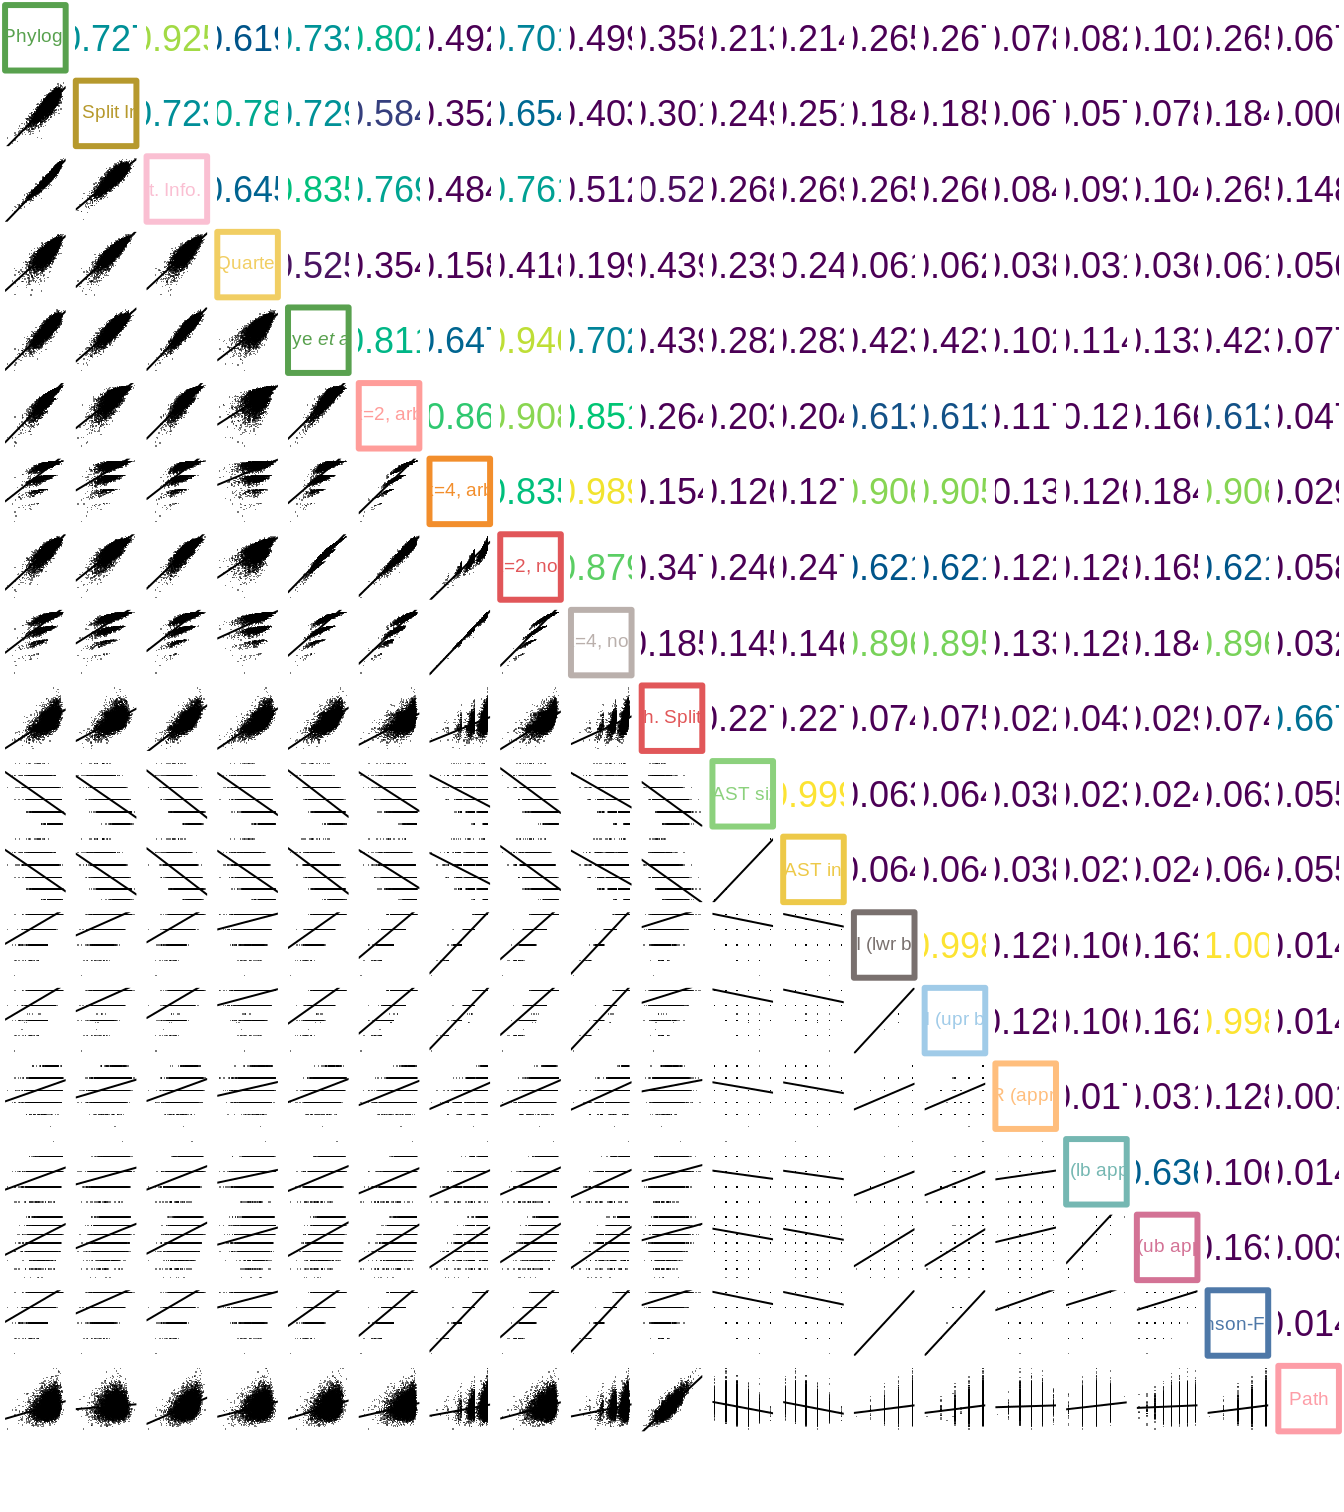
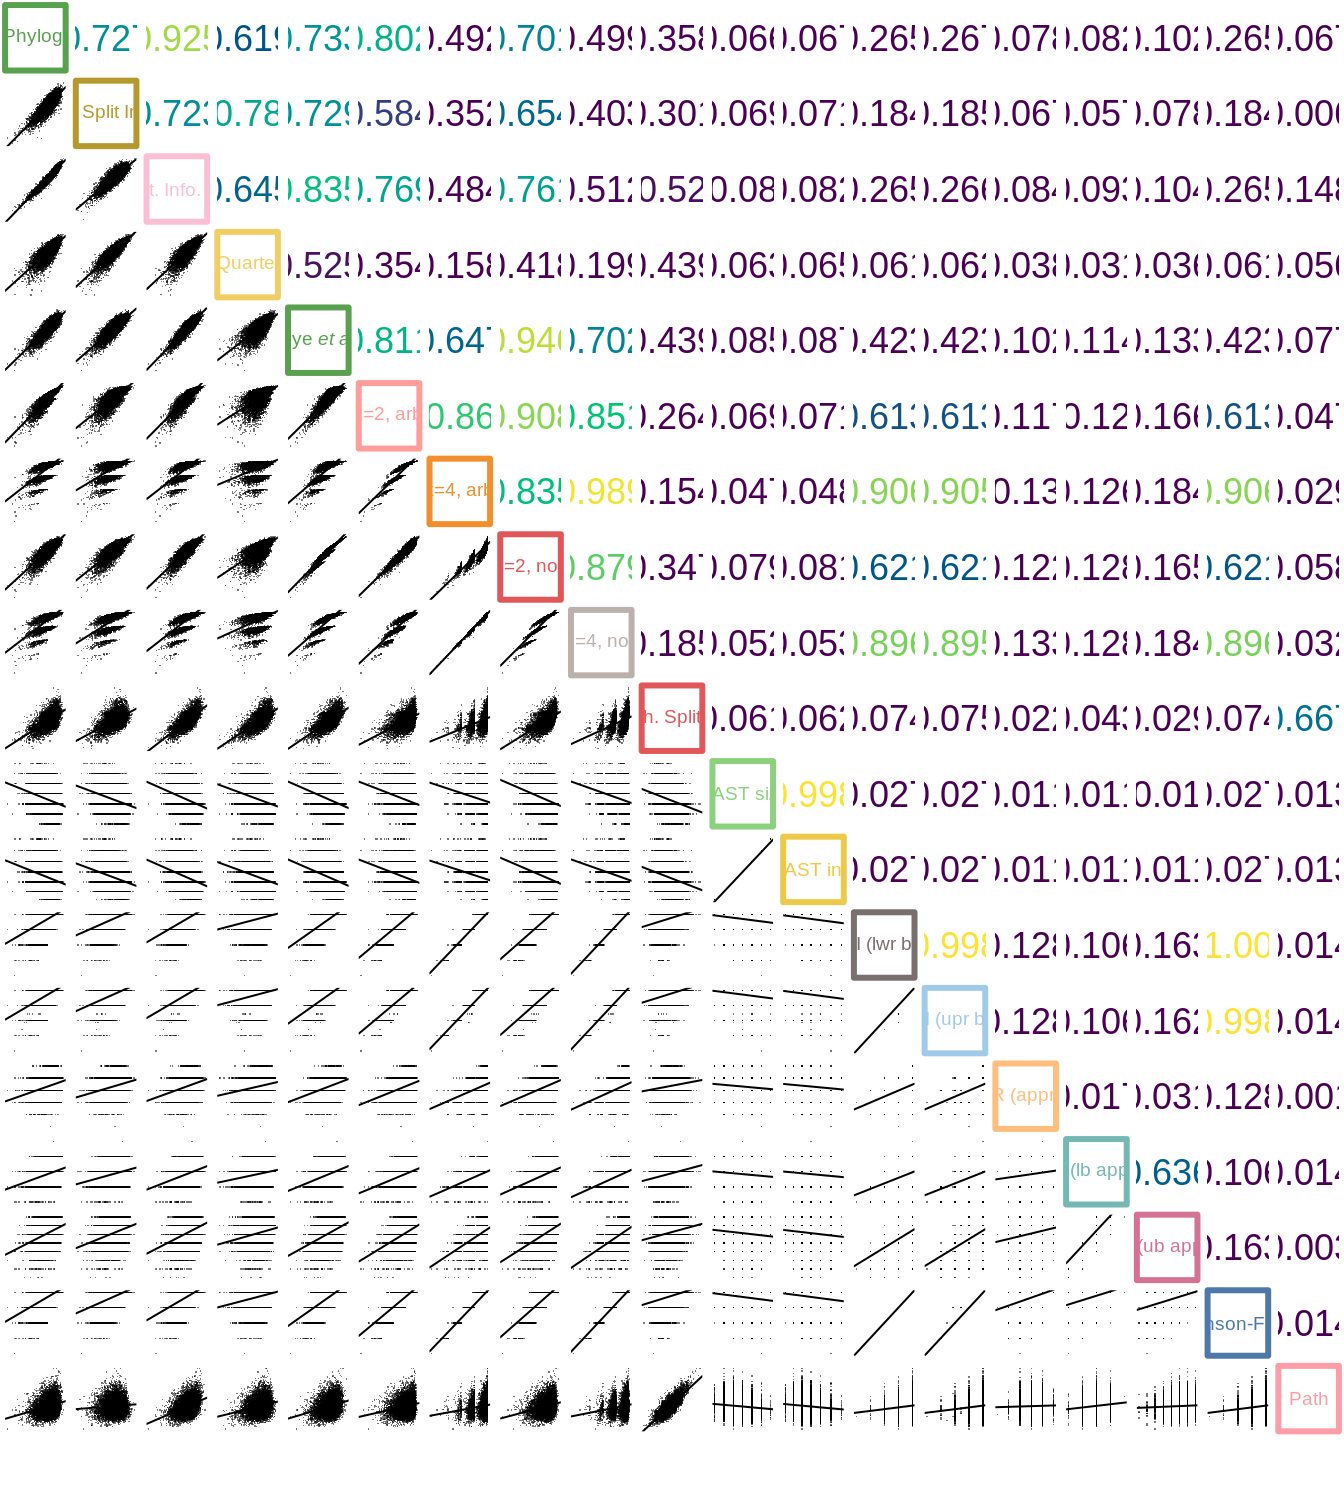
Built site for TreeDistData: 0.0.0.9007@1f3c18f

diff --git a/reference/CompareAllTrees.html b/reference/CompareAllTrees.html
@@ -274,18 +274,18 @@ is presently being performed.</p></td>
 #&gt; $mast
 #&gt;   1 2 3 4 5
 #&gt; 1 8 6 5 4 5
-#&gt; 2 6 8 5 4 4
-#&gt; 3 5 5 8 4 5
-#&gt; 4 4 4 4 8 5
-#&gt; 5 5 4 5 5 8
+#&gt; 2 6 8 5 5 5
+#&gt; 3 5 5 8 5 5
+#&gt; 4 4 5 5 8 5
+#&gt; 5 5 5 5 5 8
 #&gt; 
 #&gt; $masti
 #&gt;           1         2         3         4         5
 #&gt; 1 13.343602  6.714246  3.906891  1.584963  3.906891
-#&gt; 2  6.714246 13.343602  3.906891  1.584963  1.584963
-#&gt; 3  3.906891  3.906891 13.343602  1.584963  3.906891
-#&gt; 4  1.584963  1.584963  1.584963 13.343602  3.906891
-#&gt; 5  3.906891  1.584963  3.906891  3.906891 13.343602
+#&gt; 2  6.714246 13.343602  3.906891  3.906891  3.906891
+#&gt; 3  3.906891  3.906891 13.343602  3.906891  3.906891
+#&gt; 4  1.584963  3.906891  3.906891 13.343602  3.906891
+#&gt; 5  3.906891  3.906891  3.906891  3.906891 13.343602
 #&gt; 
 #&gt; $nni_l
 #&gt;   1 2 3 4 5
